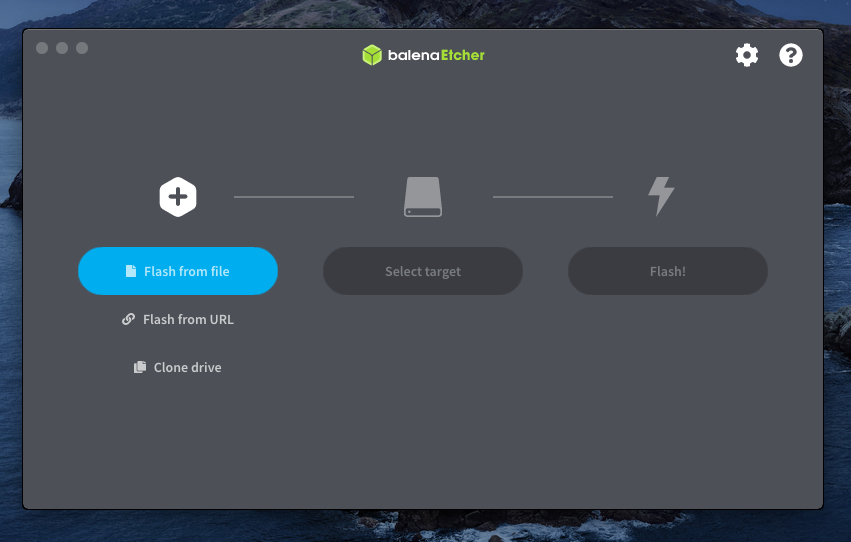
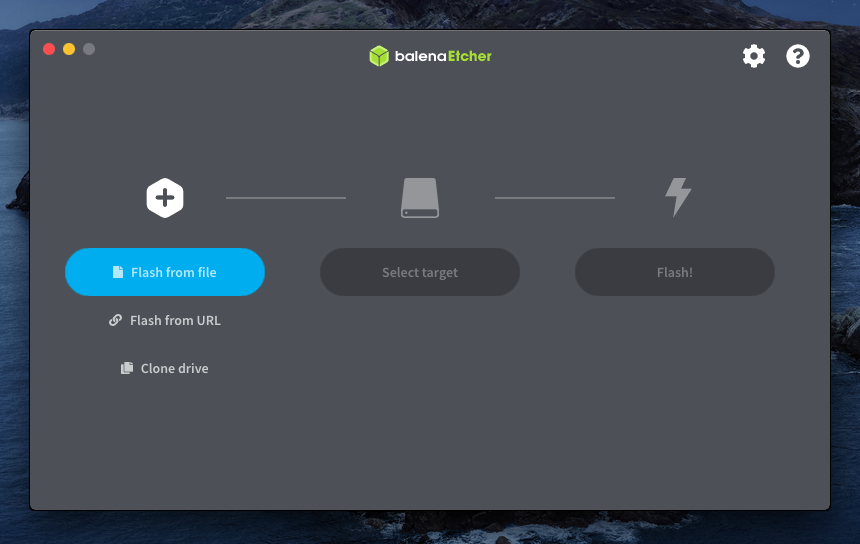
update unfocus screenshot, section linking

diff --git a/src/getting-started/create-bootable-media/bootable-usb-using-windows.md b/src/getting-started/create-bootable-media/bootable-usb-using-windows.md
@@ -7,6 +7,8 @@ This section explains the process of creating a bootable Pop!_OS USB in macOS us
 - [Verify the Pop!\_OS.iso Hash Value](/Getting-Started/Create-bootable-media/bootable-usb-using-windows.html#verify-the-hash-value)
 - [Flash the ISO to your USB storage device.](/Getting-Started/Create-bootable-media/bootable-usb-using-windows.html#create-the-bootable-usb)
 
+---
+
 ## Install Etcher
 
 1. Navigate to Etcher's [download page](https://www.balena.io/etcher/) and click `Download for Windows (x86|x64)`.

diff --git a/src/getting-started/create-bootable-media/create-bootable-usb.md b/src/getting-started/create-bootable-media/create-bootable-usb.md
@@ -36,5 +36,5 @@ Pop!_OS offers its ISO image in 3 varieties:
 This process will vary depending on the host operating system. Refer to the appropriate page for your current operating system. 
 
 - [Create a Bootable Pop!_OS USB in Linux](bootable-usb-using-linux.md)
-<!-- Create a Bootable Pop!_OS USB in Windows
-- Create a Bootable Pop!_OS USB in MacOS -->
+- [Create a Bootable Pop!_OS USB in Windows](bootable-usb-using-windows.md)
+- [Create a Bootable Pop!_OS USB in MacOS](bootable-usb-using-macos.md)

diff --git a/src/getting-started/create-bootable-media/bootable-usb-using-macos.md b/src/getting-started/create-bootable-media/bootable-usb-using-macos.md
@@ -7,6 +7,8 @@ This section explains the process of creating a bootable Pop!_OS USB in macOS us
 - [Verify the Pop!\_OS.iso Hash Value](/Getting-Started/Create-bootable-media/bootable-usb-using-macos.html#verify-the-hash-value)
 - [Flash the ISO to your USB storage device.](/Getting-Started/Create-bootable-media/bootable-usb-using-macos.html#create-the-bootable-usb)
 
+---
+
 ## Install Etcher
 
 1. Navigate to Etcher's [download page](https://www.balena.io/etcher/) and click `Download for macOS`.

diff --git a/src/getting-started/installation/installation.md b/src/getting-started/installation/installation.md
@@ -6,7 +6,7 @@ The Pop!_OS installer guides the user through setup of basic system settings.
 - Choose a locale and keyboard language.
 - Perform system hard drive selection and partitioning (advanced).
 - Create a user account.
-- Enable system disk encryptions.
+- Enable system disk encryption.
 
 ---
 
